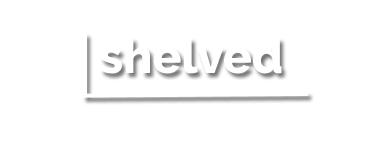
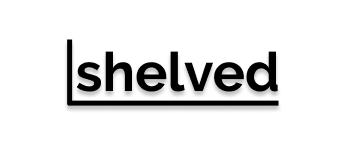
ogin

Changed region(s): [[0.1854, 0.25, 0.8343, 0.7778]]

diff --git a/web/src/views/LoginPage/LoginPage.jsx b/web/src/views/LoginPage/LoginPage.jsx
@@ -1,27 +1,67 @@
-import React, { useState, useEffect } from 'react';
-import { useDispatch, useSelector } from 'react-redux';
-import { makeStyles } from '@material-ui/core/styles';
+import React, {useState, useEffect} from 'react';
+import {useDispatch, useSelector} from 'react-redux';
+import {makeStyles} from '@material-ui/core/styles';
 import Grid from '@material-ui/core/Grid';
-import { userActions } from '../../_actions';
-import bg from "../../resources/images/bg.png";
-import Paper from "@material-ui/core/Paper";
+import {userActions} from '../../_actions';
+import rightImage from "../../resources/images/brown-wooden-shelf-with-books-3646172.jpg";
 import {LoginForm} from "./LoginForm";
+import Box from "@material-ui/core/Box";
 
 const useStyles = makeStyles((theme) => ({
     root: {
-        flexGrow: 1,
-        height: '100vh'
+        // border: "1px solid blue",
+        flexGrow: 1
+
     },
     paper: {
         padding: theme.spacing(2),
         textAlign: 'center',
         color: theme.palette.text.secondary,
     },
-    left:{
+    left: {
         height: '100vh'
     },
-    right:{
-        backgroundColor:"#ffffff"
+    right: {
+        "position": "relative",
+        "maxWidth": "100%",
+        "maxHeight": "100%",
+        "margin": "auto",
+        "display": "block",
+        "background": "rgba(0, 0, 0, 0.25)"
+    },
+    gridItem: {
+        // border: "1px solid red",
+        maxHeight: '100vh',
+        overflowY: 'hidden'
+    },
+    rightImage: {
+        maxWidth: '100%',
+        maxHeight: '100%',
+        margin: 'auto',
+        display: 'block',
+    },
+    butText: {
+        "position": "absolute",
+        "cursor": "pointer",
+        "color": "#fff",
+        "fontSize": "1.3em",
+        "fontFamily": "inherit",
+        "textTransform": "uppercase",
+        "textAlign": "center",
+        "top": "0px",
+        "left": "0px",
+        "width": "100%",
+        "height": "100%",
+        "display": "flex",
+        "WebkitFlexDirection": "column",
+        "MsFlexDirection": "column",
+        "flexDirection": "column",
+        "WebkitAlignItems": "center",
+        "MsFlexAlign": "center",
+        "alignItems": "center",
+        "WebkitJustifyContent": "center",
+        "MsFlexPack": "center",
+        "justifyContent": "center"
     }
 }));
 
@@ -34,7 +74,7 @@ function LoginPage() {
         password: ''
     });
     const [submitted, setSubmitted] = useState(false);
-    const { username, password } = inputs;
+    const {username, password} = inputs;
     const loggingIn = useSelector(state => state.authentication.loggingIn);
     const dispatch = useDispatch();
 
@@ -44,8 +84,8 @@ function LoginPage() {
     }, []);
 
     function handleChange(e) {
-        const { name, value } = e.target;
-        setInputs(inputs => ({ ...inputs, [name]: value }));
+        const {name, value} = e.target;
+        setInputs(inputs => ({...inputs, [name]: value}));
     }
 
     function handleSubmit(e) {
@@ -58,17 +98,56 @@ function LoginPage() {
     }
 
     return (
-        <Grid container  style = {{minHeight: "100vh",backgroundImage:`url(${bg})` }}>
-            <Grid item xs={12} sm={5}  container
-                  direction="column"
-                  justify="center"
-                  alignItems="flex-start" className={classes.left}  >
+        <Grid
+            container
+            className={classes.root}
+            style = {{minHeight: "100vh"}}
+        >
+            <Grid  container className={classes.gridItem} item xs={12} lg={5} sm={5}>
                 <LoginForm/>
             </Grid>
+            <Box
+                component={Grid}
+                className={classes.gridItem}
+                item
+                container
+                xs={7}
+                sm={7}
+                display={{xs: "none", lg: "block", sm: 'block'}}
+            >
+                <div className={classes.right}>
+                    <div className={classes.butText}><span>Heading</span>    <p>Bacon ipsum dolor amet jowl rump doner
+                        ribeye cupim andouille bresaola brisket shoulder spare ribs short ribs cow ham hock. Bacon ipsum
+                        dolor amet jowl rump doner ribeye cupim andouille bresaola brisket shoulder spare ribs short
+                        ribs cow ham hock.</p></div>
+                    <img className={classes.rightImage} src={rightImage} alt={"Book"}/>
+                </div>
+            </Box>
 
-            <Grid xs={0 } item sm={7} only ='sm' style = {{minHeight: "100vh" }}>
-            </Grid>
         </Grid>
+
+
+
+        //     <Grid container style={{minHeight: "100vh",}}>
+        //
+        //     </Grid>
+
+
+        // <Grid container style={{minHeight: "100vh",}}>
+        //     <Grid item xs={12} sm={5} container
+        //           direction="column"
+        //           justify="center"
+        //           alignItems="flex-start" className={classes.left}>
+        //         <LoginForm/>
+        //     </Grid>
+        //
+        //     <Grid xs={0} item sm={7} only='sm' style={{minHeight: "100vh",maxHeight: "100vh"}}  display={{ xs: "none", lg: "block" }} >
+        //         <div><
+        //             img src={rightImage} alt={"Book"}/>
+        //         </div>
+        //     </Grid>
+        // </Grid>
     );
 }
-export { LoginPage };
+
+export {LoginPage};

diff --git a/web/src/views/LoginPage/LoginForm.jsx b/web/src/views/LoginPage/LoginForm.jsx
@@ -89,9 +89,9 @@ export function LoginForm() {
                   direction="column"
                   justify="center"
                   alignItems="center">
-                <Grid item xs={12}>
-                    <img src={logo}/>
-                </Grid>
+
+                    <img src={logo}  style={{ width: '55%%' ,marginTop:'25%'}}
+                    />
 
                 <Grid className={classes.formDiv}>
                     <Avatar className={classes.avatar}>
@@ -140,8 +140,9 @@ export function LoginForm() {
                             type="submit"
                             fullWidth
                             variant="contained"
-                            color="primary"
                             className={classes.submit}
+                            buttonStyle={{ borderRadius: 25 }}
+                            style={{ borderRadius: 25 ,backgroundColor:'black',color:'white'}}
                         >
                             Login
                         </Button>

diff --git a/web/src/_reducers/miscReducers.js b/web/src/_reducers/miscReducers.js
@@ -1,6 +1,7 @@
 import {miscConstants} from '../_constants';
+const initialState = {spinner: false}
 
-export function misc(state = {}, action) {
+export function misc(state = initialState, action) {
     switch (action.type) {
         case miscConstants.OPEN_SPINNER:
             return {spinner: true};

diff --git a/web/src/index.html b/web/src/index.html
@@ -7,7 +7,8 @@
     html, body {
     margin: 0;
     height: 100%;
-        background-color: #fdf9f3 !important;
+        min-height: 100%;
+        background-color: #fff !important;
     }
     body {
         font-family: 'Titillium Web', sans-serif

diff --git a/web/src/_services/userService.js b/web/src/_services/userService.js
@@ -30,7 +30,6 @@ function login(user) {
 
 function logout() {
     // remove user from local storage to log user out
-    console.log("dd")
     // localStorage.removeItem('user');
 }
 
